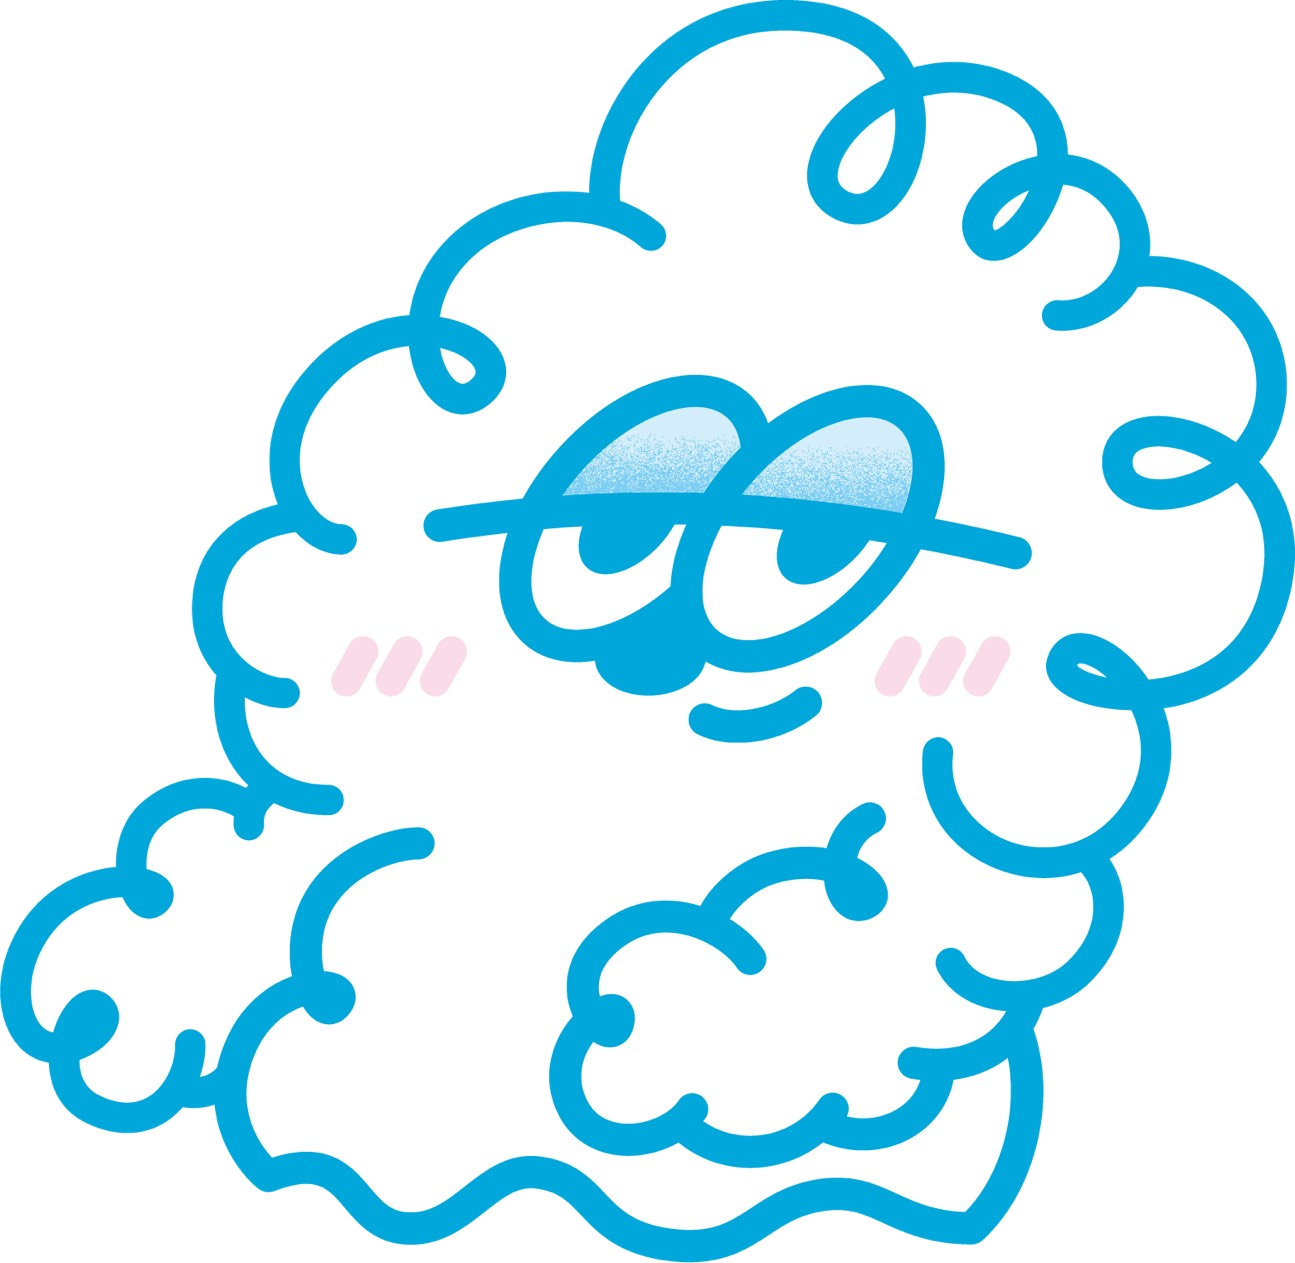
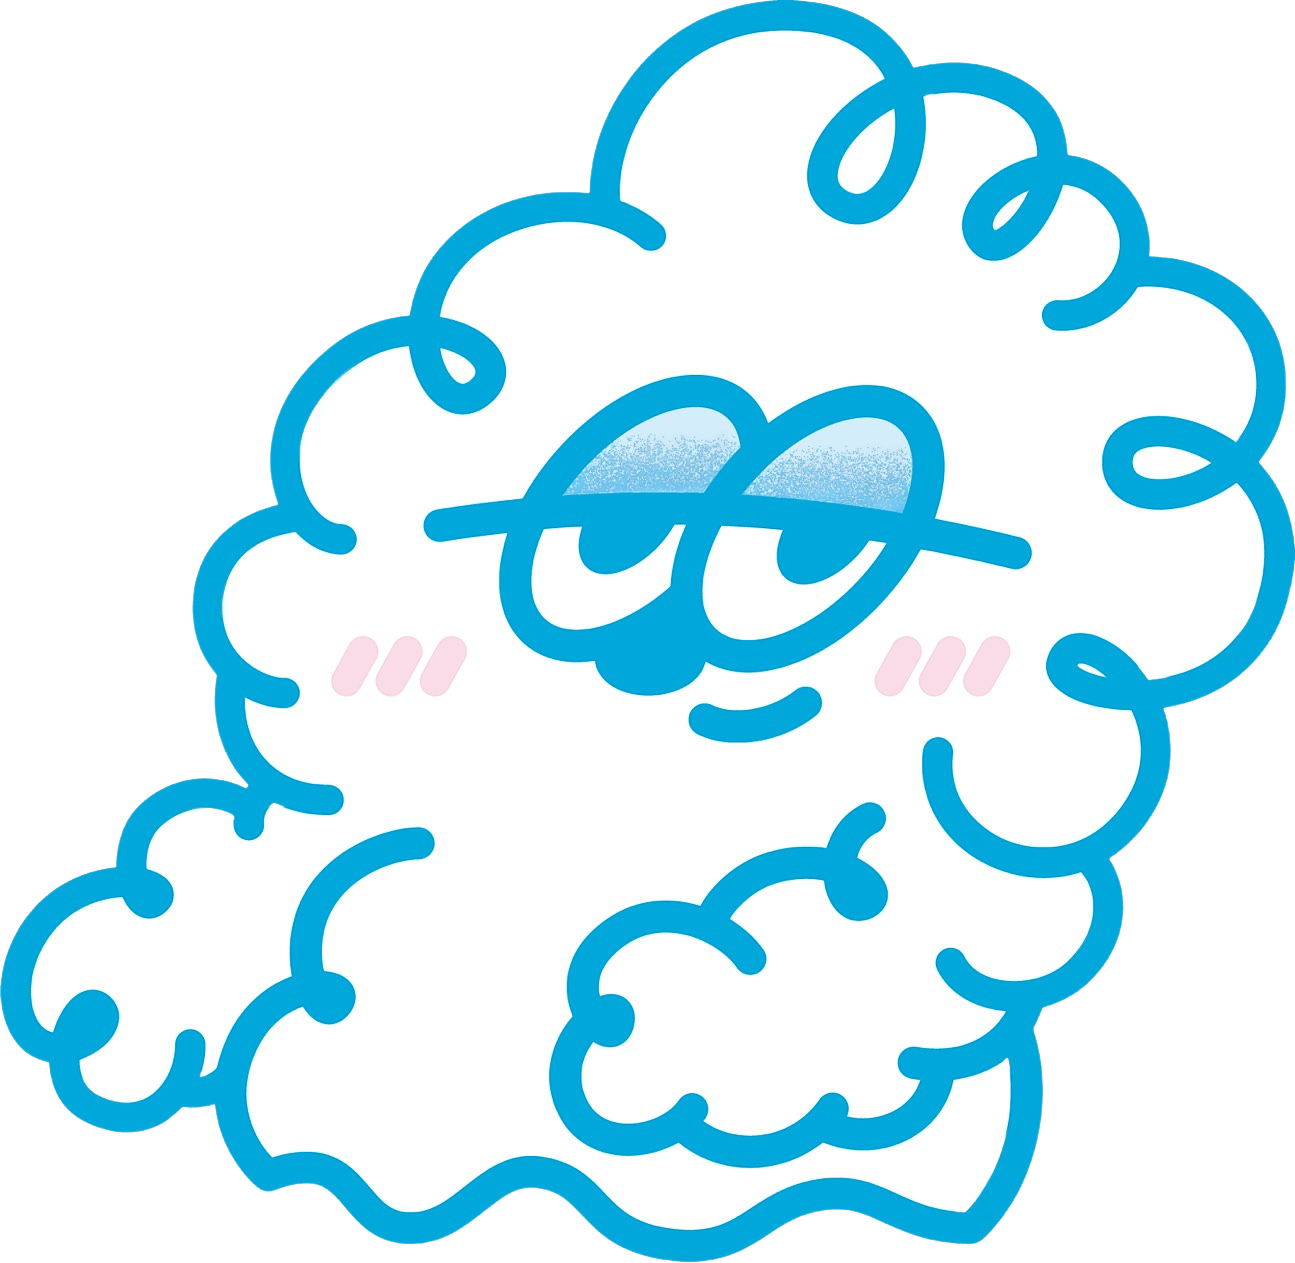
マスコット画像を内側白色版に差替、CSS白丸背景除去

diff --git a/style.css b/style.css
@@ -176,10 +176,7 @@ body {
   animation: mascotBounce 3s ease-in-out infinite;
 }
 .hero-mascot img {
-  background: #fff;
-  border-radius: 50%;
-  padding: 10px;
-  box-shadow: 0 8px 32px rgba(76,200,224,0.25);
+  filter: drop-shadow(0 8px 24px rgba(76,200,224,0.3));
 }
 
 @keyframes mascotBounce {
